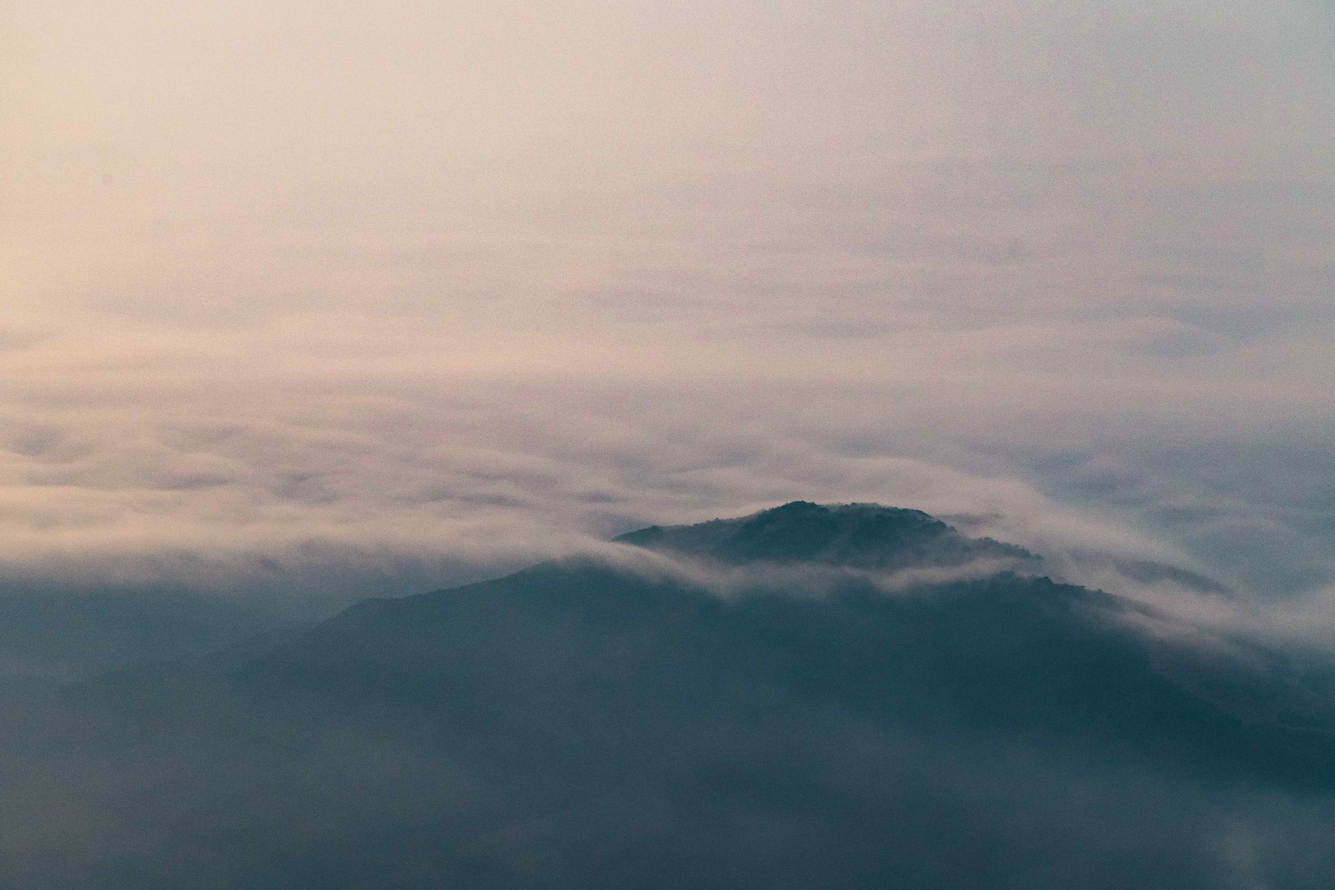
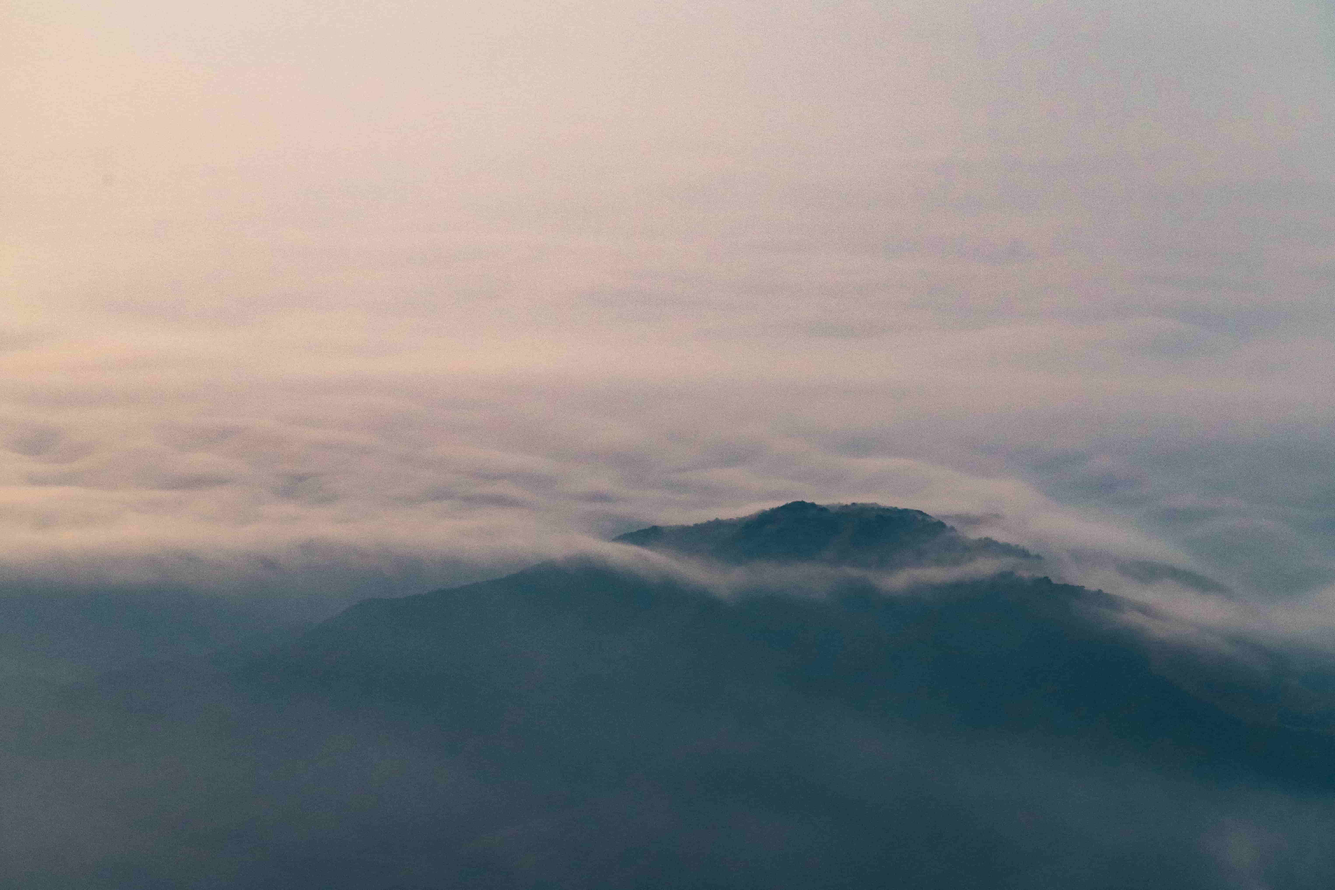
change img

diff --git a/_pages/about.md b/_pages/about.md
@@ -18,10 +18,10 @@ Hi! I am a junior-year undergraduate in Computer Science at ShanghaiTech Univers
 <img src="../images/DSC02997-min.png" alt="DSC02997" style="zoom:50%;" /> 
 
 ### Sichuan, China
-<img src="../images/DSC01420-min.png" alt="DSC01420" style="zoom:50%;" /> 
+<img src="../images/DSC01420-min.png" alt="DSC01420" style="zoom:25%;" /> 
 
 ### Sichuan, China
-<img src="../images/DSC03186-min.png" alt="DSC03186" style="zoom:50%;" /> 
+<img src="../images/DSC03186-min.png" alt="DSC03186" style="zoom:25%;" /> 
 
 ### Shanghai, China
 <img src="../images/DSCF5281-min.png" alt="DSCF5281" style="zoom:50%;" />
